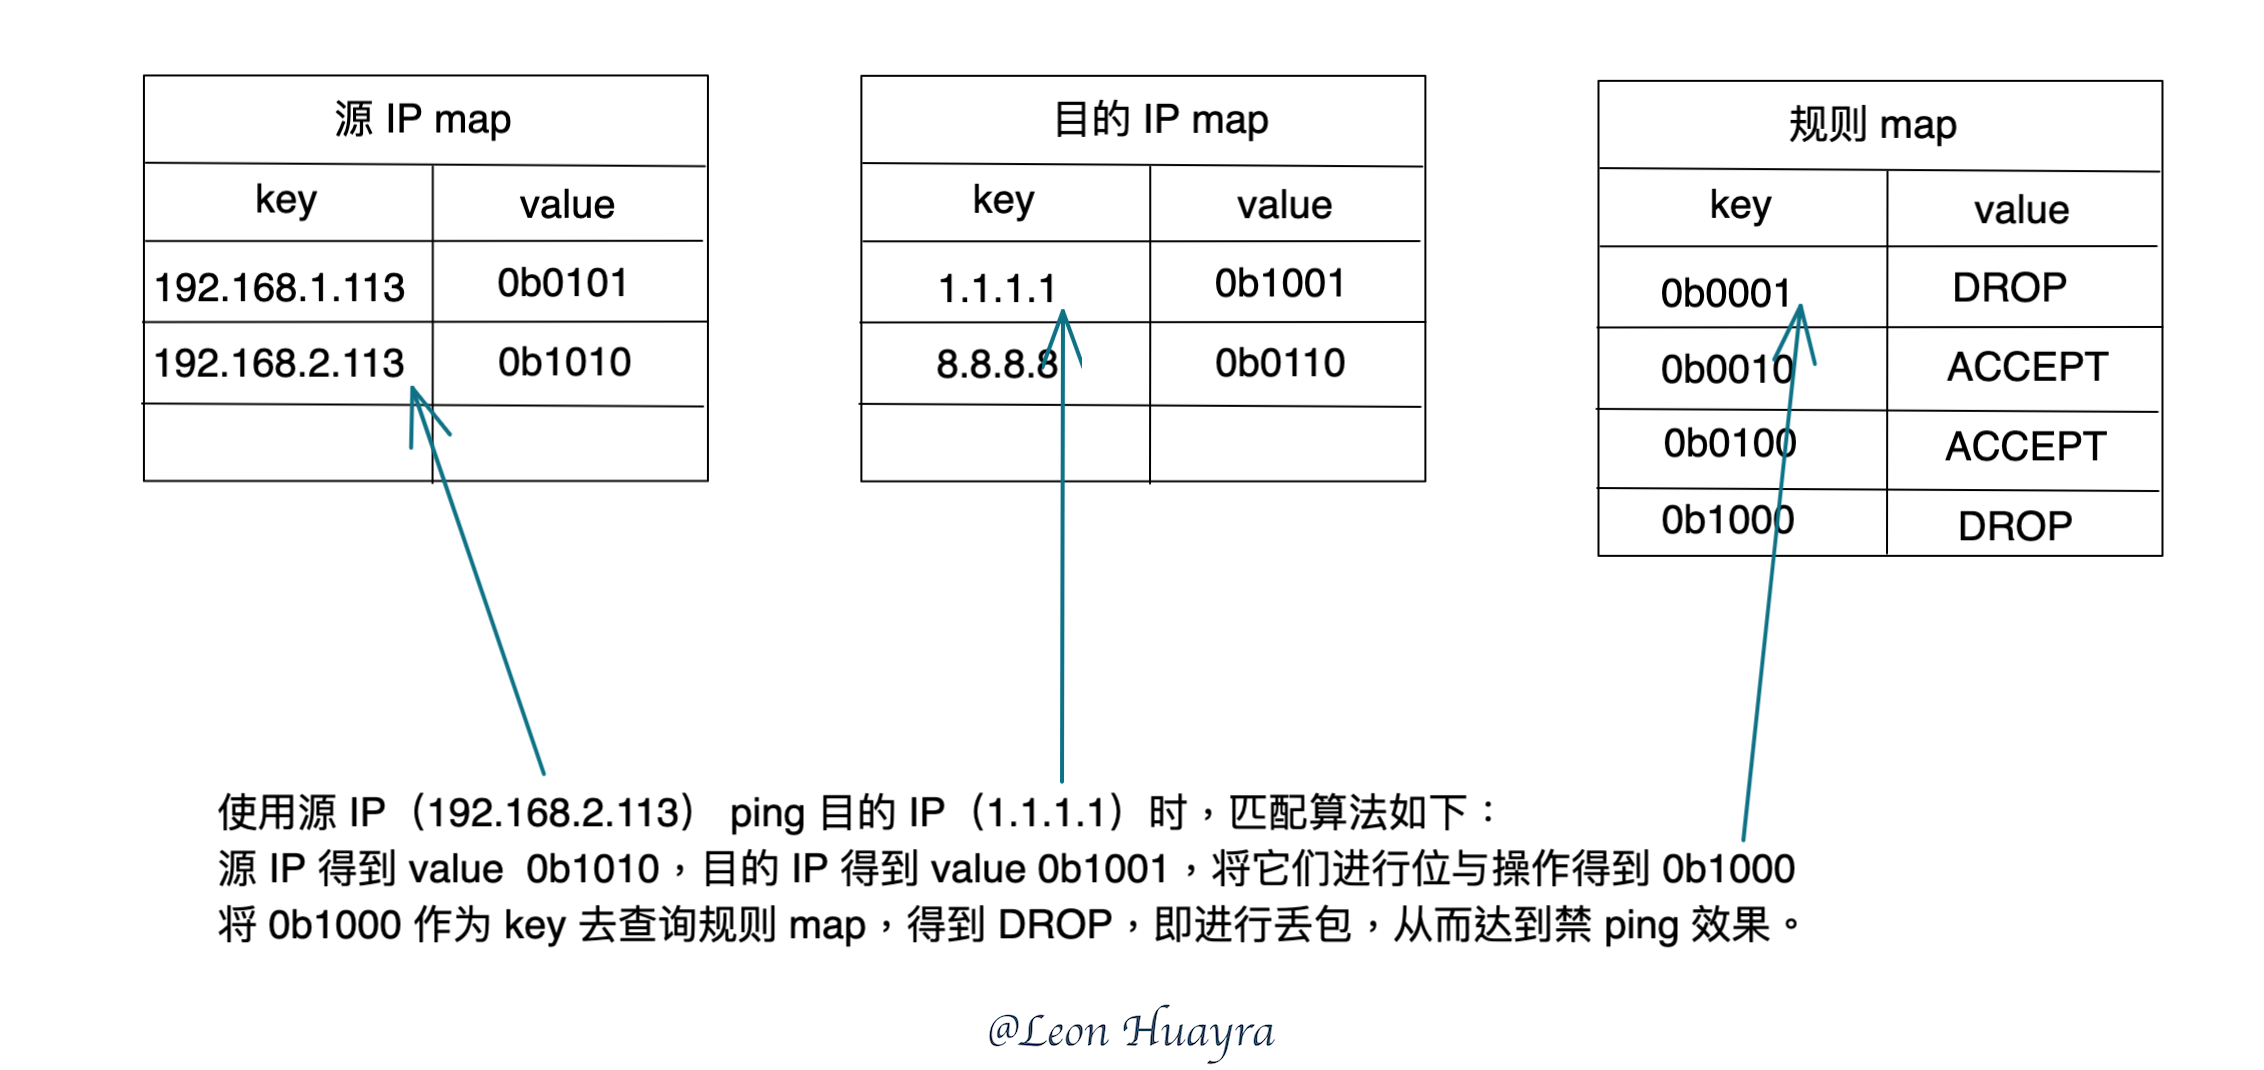
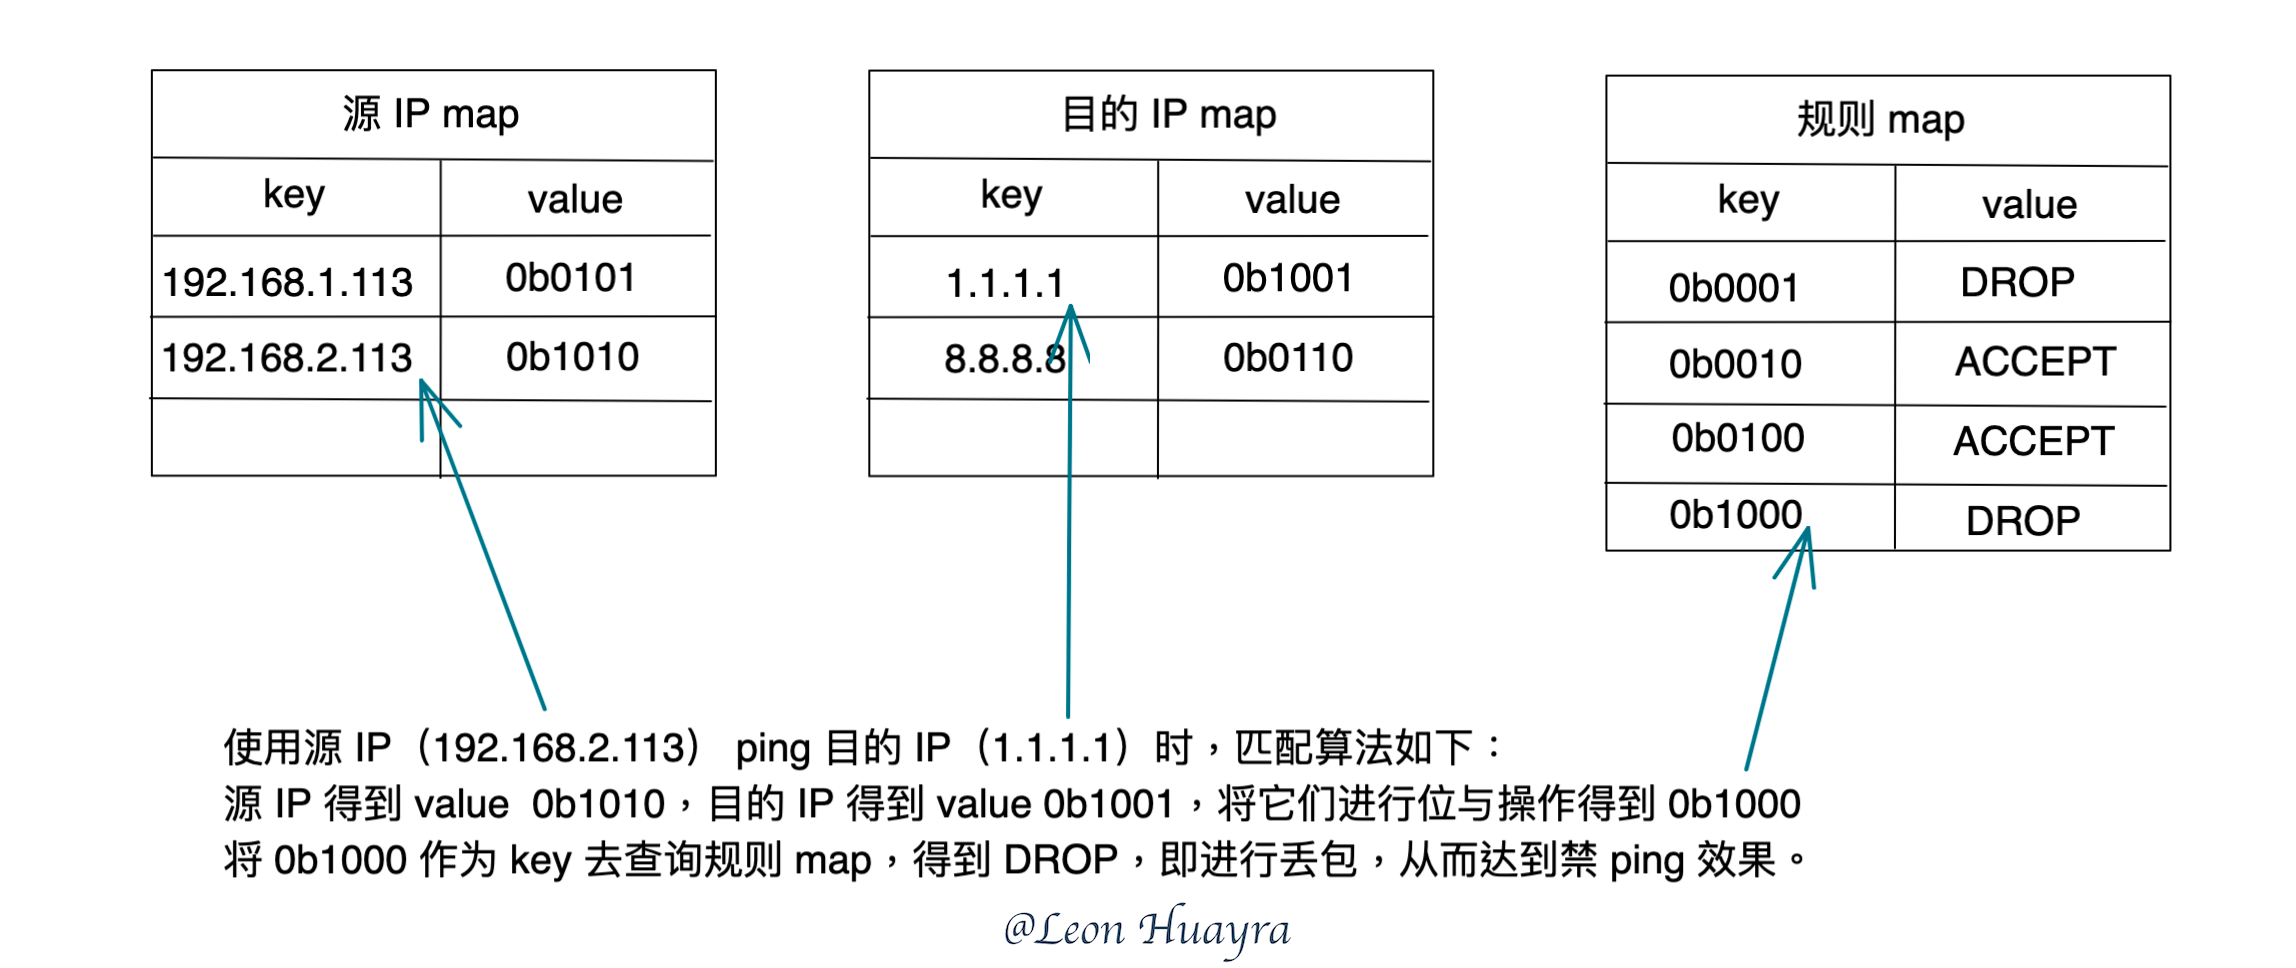
add ebpf acl

diff --git a/ebpf-acl/ebpf/acl.c b/ebpf-acl/ebpf/acl.c
@@ -50,6 +50,7 @@ int filter_iptables(void *skb) {
   if (daddr == NULL) return BPF_OK;
 
   result.key = saddr->key & daddr->key;
+  result.key = result.key & ((~result.key) + 1);  // get the very first bit
 
   res = bpf_map_lookup_elem(&filter_rules, &result);
   if (res != NULL && *res == 1) return BPF_DROP;

diff --git a/ebpf-acl/README.md b/ebpf-acl/README.md
@@ -86,6 +86,22 @@ PING 1.1.1.1 (1.1.1.1) 56(84) bytes of data.
 --- 1.1.1.1 ping statistics ---
 4 packets transmitted, 0 received, 100% packet loss, time 3075ms
 
+# make clean
+rm -f iptables-ebpf-acl.elf
+rm -f iptables-ebpf-acl
+iptables -D OUTPUT -m bpf --object-pinned /sys/fs/bpf/ipt_acl -j DROP
+rm -f /sys/fs/bpf/ipt_acl
+
+# ping -c4 -W1 1.1.1.1
+PING 1.1.1.1 (1.1.1.1) 56(84) bytes of data.
+64 bytes from 1.1.1.1: icmp_seq=1 ttl=59 time=1.64 ms
+64 bytes from 1.1.1.1: icmp_seq=2 ttl=59 time=0.841 ms
+64 bytes from 1.1.1.1: icmp_seq=3 ttl=59 time=0.906 ms
+64 bytes from 1.1.1.1: icmp_seq=4 ttl=59 time=3.26 ms
+
+--- 1.1.1.1 ping statistics ---
+4 packets transmitted, 4 received, 0% packet loss, time 3021ms
+rtt min/avg/max/mdev = 0.841/1.661/3.257/0.973 ms
 ```
 
 ## demo 系统环境
@@ -106,4 +122,4 @@ Linux vultr 5.13.0-28-generic #31-Ubuntu SMP Thu Jan 13 17:41:06 UTC 2022 x86_64
 
 诚如该公众号文章所说，该匹配算法并不局限于 iptables xt_bpf，而能够适用于任何使用 eBPF 匹配网络包的场景，譬如 XDP、TC，甚至是 Open vSwitch 中基于 eBPF 的扩展。
 
-看似完美的 **O(1)** 匹配算法，却有一个*致命*的缺陷：保存规则的 bitmap 有长度限制，在使用的时候就需要预估好 bitmap 的大小且无法动态扩容。比如，保存 1000 条规则需要使用 256 字节大小的 bitmap。然而，看似*致命*，但大部分场景使用的规则数量都不会超过 100 条。
+看似完美的 **O(1)** 匹配算法，却有一个*致命*的缺陷：保存规则的 bitmap 有长度限制，在使用的时候就需要预估好 bitmap 的大小且无法动态扩容。比如，保存 1024 条规则需要使用 128 字节大小的 bitmap。然而，看似*致命*，但大部分场景使用的规则数量都不会超过 100 条。

diff --git a/README.md b/README.md
@@ -3,7 +3,7 @@ Learn something interesting by examples.
 
 ---
 
-1. [`nsenter` in Go](./nsenter/README.md)
-2. [`nfnetlink`(`iptables-nfqueue`) in Go](./nfnetlink/README.md)
-3. [`nfqueue`(another example of `iptables-nfqueue`) in Go](./nfqueue/README.md)
-4. [`demo for 「eBPF 技术实践：高性能 ACL」`](./ebpf-acl/README.md)
+1. [`nsenter` in Go](./nsenter/)
+2. [`nfnetlink`(`iptables-nfqueue`) in Go](./nfnetlink/)
+3. [`nfqueue`(another example of `iptables-nfqueue`) in Go](./nfqueue/)
+4. [`demo for 「eBPF 技术实践：高性能 ACL」`](./ebpf-acl/)
